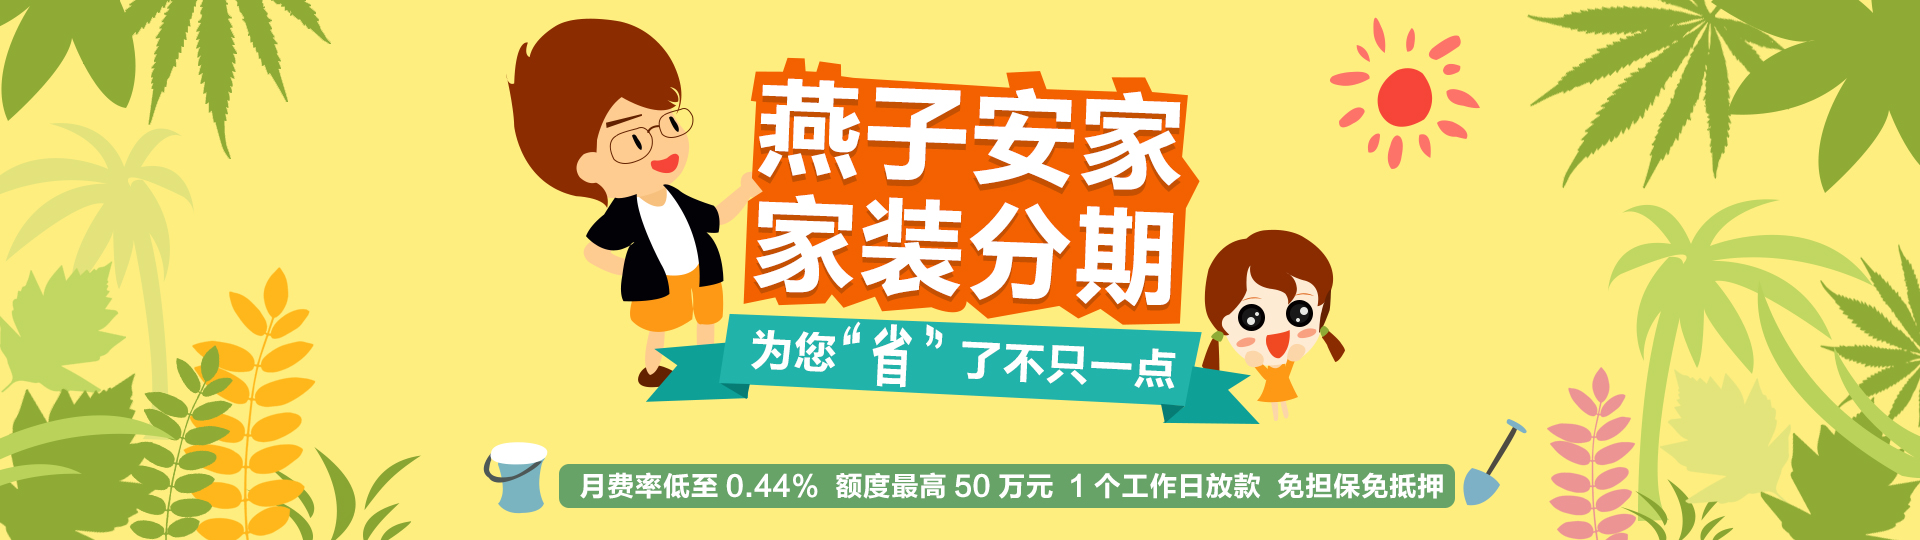
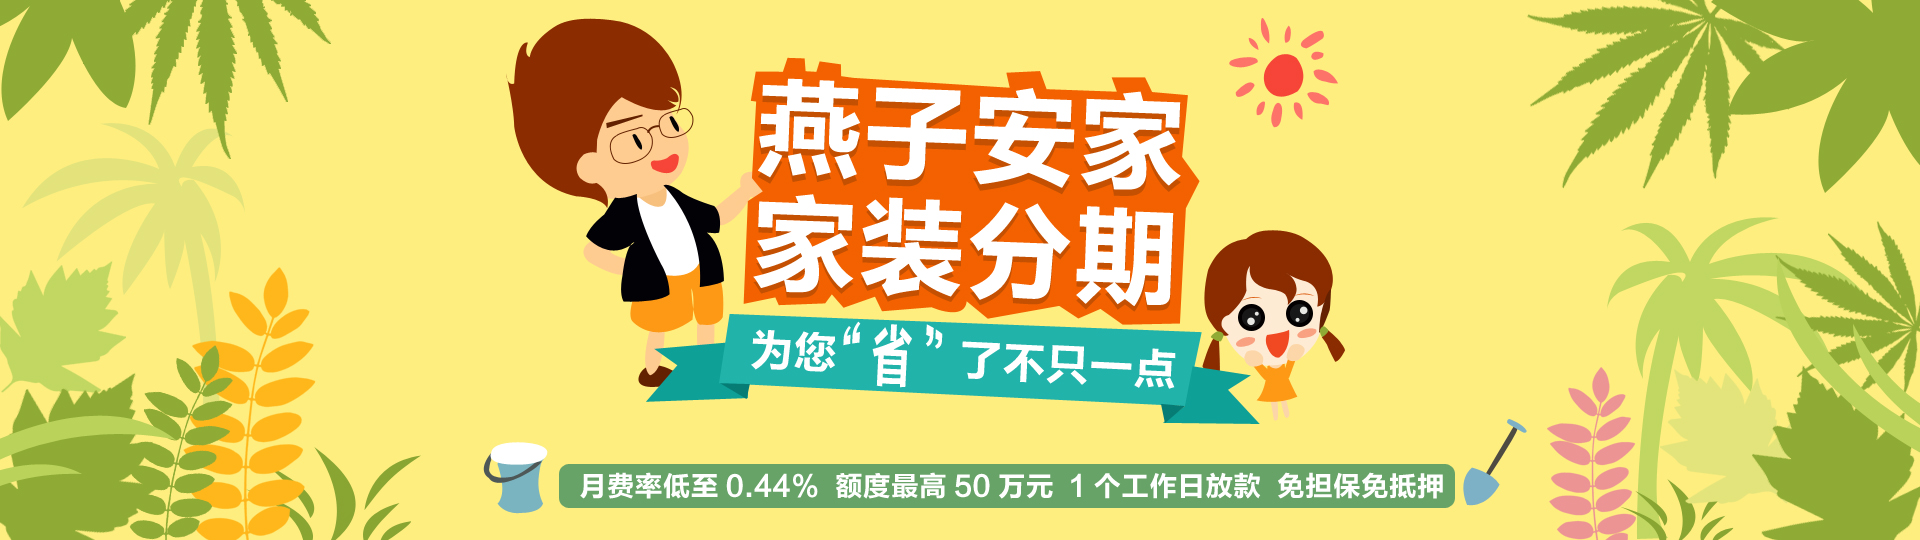
修改家装分期banner框板式   给首页 及家装分期页增加关键字及描述

diff --git a/res/css/index.css b/res/css/index.css
@@ -978,11 +978,11 @@ h1,h2,h3,h4,h5{font-weight:500;}
 .staging_div5 .ul li p{font-size:12px;color:#0f0f0f;line-height:27px;}
 .staging_div5 .ul li.last{border-right:1px solid #c9c7c7;}
 
-.slide-btn-box{opacity:0.84;border-radius:17px;box-shadow:0px 1px 9px #333;margin-top:0px;padding-top:10px;width:231px;padding-left:33px;background-color:#c6e2a9;height:194px;}
-.slide-btn-box .left{font-size:30px;color:#456e34;overflow:hidden;line-height:40px;}
+.slide-btn-box{opacity:0.6;border-radius:17px;box-shadow:0px 1px 9px #333;margin-top:0px;padding-top:17px;width:214px;padding-left:16px;background-color:#8fab35;height:172px;}
+.slide-right-part .left{left:43px;top:14px;position:absolute;font-family:FZLTCHK;font-weight:600;padding-left:38px;font-size:30px;color:#fff;overflow:hidden;line-height:44px;}
 .slide-btn-box .left span.right{float:right;font-size:24px;line-height:37px;margin-right:47px;}
-.slide-btn-box  .improve-btn2{box-shadow:0 1px 4px #333;margin:7px 0 7px -3px;font-weight:600;font-family:华文琥珀;color:#fd680e;font-size:40px;border-radius:20px;background-color:#fff;display:block;width:204px;height:60px;line-height:60px;text-align:center;}
-.slide-right-part{margin-right:0;}
+.slide-right-part  .improve-btn2{position:absolute;top:109px;left:46px;box-shadow:0 1px 4px #acb64c;margin:7px 0 7px -3px;font-weight:600;font-family:华文琥珀;color:#fd680e;font-size:40px;border-radius:20px;background-color:#fff;display:block;width:204px;height:60px;line-height:60px;text-align:center;}
+.slide-right-part{margin-right:0;position:relative;width:198px;}
 .sub-page-banner.improve-banner{background:url('../images/jbanner1.jpg') no-repeat scroll center top;}
 
 .cooperative-part .cooperative-example .cooperative-example-part .c-example-img, .cooperative-part .cooperative-example .cooperative-example-part-two .c-example-img{

diff --git a/anjia/staging.html b/anjia/staging.html
@@ -1,9 +1,12 @@
 <!DOCTYPE html>
 <html xmlns="http://www.w3.org/1999/xhtml">
 <head>
+	<meta http-equiv="X-UA-Compatible" content="IE=Edge,chrome=1">
 	<meta http-equiv="Content-Type" content="text/html; charset=UTF-8">
 	<meta name="viewport" content="width=device-width,initial-scale=1.0,maximum-scale=1.0,minimum-scale=1.0,user-scalable=no" />
-	<title>燕子安家</title>
+	<title>家装分期_装修贷款-低利率、申请简单快捷-燕子安家</title>
+	<meta name="keywords"    content="家装分期，装修贷款，家装贷款，燕子安家">
+	<meta name="description"   content="燕子安家为家装用户提供低利率、高额度、长期限、纯信用的家装分期贷款产品。燕子安家提供一站式装修贷款服务，让您的装修没有资金烦恼">	
 	<link href="../res/css/common.css" rel="stylesheet">
 	<link href="../res/css/index.css" rel="stylesheet">
 </head>
@@ -69,10 +72,10 @@
     <div class="sub-page-banner improve-banner">
     	<div class="ui-wrap">
             <div class="slide-right-part" style="background:none;">
-                <div class="slide-btn-box">
-                	<div class="left">我们<span class="right">为您助力<br>帮你安家<br>让您享家</span></div>
-                    <a href="/anjia/mystaging.html" title="我要分期" class="improve-btn2">我要分期</a>
+                <div class="slide-btn-box">                 
                 </div>
+				<div class="left">为您助力<br>帮您安家</div>
+				<a href="/anjia/mystaging.html" title="我要分期" class="improve-btn2">我要分期</a>
             </div>
         </div>
     </div>

diff --git a/anjia/index.html b/anjia/index.html
@@ -1,9 +1,12 @@
 <!DOCTYPE html>
 <html xmlns="http://www.w3.org/1999/xhtml">
 <head>
+	<meta http-equiv="X-UA-Compatible" content="IE=Edge,chrome=1">
 	<meta http-equiv="Content-Type" content="text/html; charset=UTF-8">
 	<meta name="viewport" content="width=device-width,initial-scale=1.0,maximum-scale=1.0,minimum-scale=1.0,user-scalable=no" />
-	<title>燕子安家</title>
+	<title>燕子安家--家装分期--专业的家庭消费分期互联网金融平台</title>
+	<meta name="keywords"    content="燕子安家，家装分期，装修贷款，装修贷款怎么申请，家庭消费">
+	<meta name="description"   content="燕子安家—致力于打造“家消费”领域的互联网金融服务平台，向3亿中国家庭提供低利率、高额度、长期限、纯信用的的家装分期贷款等金融服务">
 	<link href="../res/css/common.css" rel="stylesheet">
 	<link href="../res/css/carouFredSel.css" rel="stylesheet">
 	<link href="../res/css/index.css" rel="stylesheet"> 
